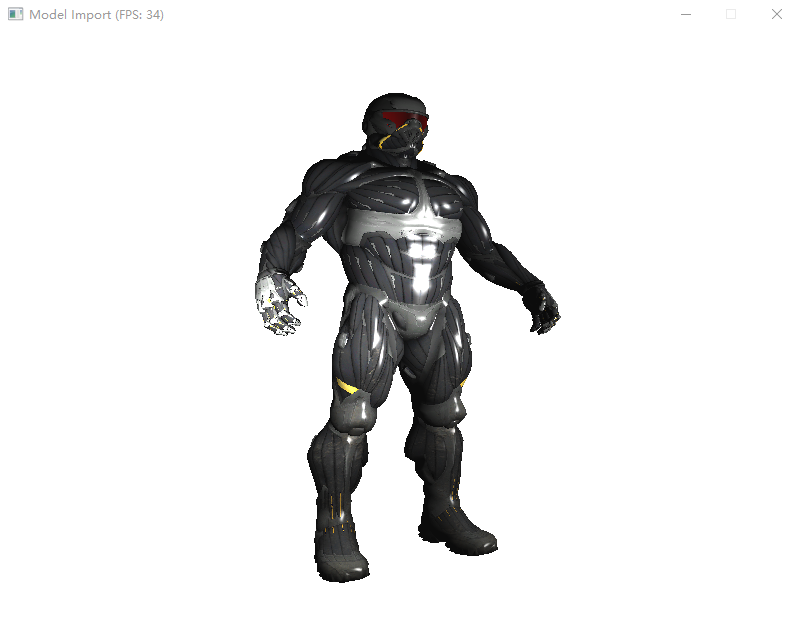
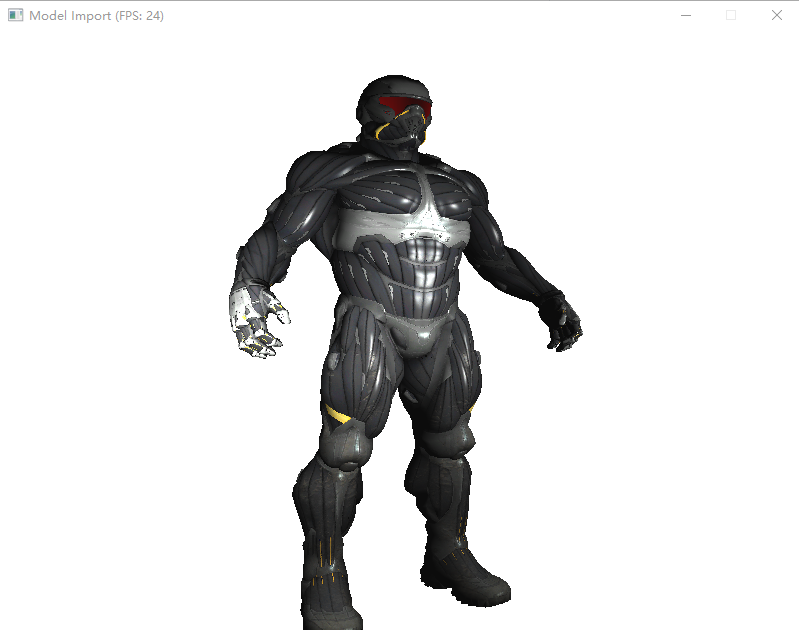
应用裁剪到模型渲染中

Changed region(s): [[0.2703, 0.1206, 0.7509, 1.0], [0.0, 0.0, 0.2103, 0.0302], [0.6308, 0.3921, 0.6608, 0.4222]]

diff --git a/SoftRenderer/SoftRenderer/RenderSystem/Shader.hpp b/SoftRenderer/SoftRenderer/RenderSystem/Shader.hpp
@@ -50,7 +50,7 @@ class DefaultShader : public Shader
 public:
 	DefaultShader()
 	{
-		fragmentShader = FragShader;
+		fragmentShader = TextureFragShader;
 		vertexShader = VertShader;
 	}
 
@@ -66,7 +66,7 @@ public:
 
 	static Vector3f TextureFragShader(FragmentShader inputData)
 	{
-
+		//std::cout << "is come" << std::endl;
 		Color textureColor = inputData.textures[0].Sample(inputData.texCoords.x, inputData.texCoords.y);
 
 		//Color textureColor = Color::black;
@@ -82,7 +82,7 @@ public:
 
 		Vector3f ka(0.005, 0.005, 0.005);
 		Vector3f kd = textureColor.ToVec3();
-		Vector3f ks(0.0, 0.0, 0.0);
+		Vector3f ks(0.005, 0.005, 0.005);
 
 		if (inputData.textures.size() > 1)
 		{
@@ -90,16 +90,16 @@ public:
 		}
 
 		Vector3f ambientLightIntensity(10, 10, 10);
-		PointLight pointLight(Color::red, Vector3f(0, 0, -40));
+		PointLight pointLight(Color::red, Vector3f(0, 0, -50));
 		pointLight.SetAttenuationPara(1.0f, 0.09f, 0.032f);
 
 		//float attenuation = pointLight.GetAttenuation(viewPos);
-		Vector3f attenuation(1200, 1200, 1200);
+		Vector3f attenuation(2000, 2000, 2000);
 		float p = 150;
 		Vector3f lightDir = pointLight.position - viewPos;
 		Vector3f eyeDir = eyePos - pointLight.position;
 		Vector3f halfL2E = (eyeDir + lightDir).Normalized();
-		//std::cout << "viewPos : " << viewPos << std::endl;
+
 		Vector3f lightDirNormal = (pointLight.position - viewPos).Normalized();
 		float r2 = pow(lightDir.x, 2.0) + pow(lightDir.y, 2.0) + pow(lightDir.z, 2.0);
 		attenuation /= r2;

diff --git a/SoftRenderer/SoftRenderer/Applications/ModelImportApp.hpp b/SoftRenderer/SoftRenderer/Applications/ModelImportApp.hpp
@@ -16,19 +16,19 @@ public:
 
 	void Init()
 	{
-		//model = Model("ModelData/nanosuit.obj", renderManager);
-		camera = Camera({ 0, 0, 20 }, { 0, 1, 0 }, { 0, 0, 1 });
+		model = Model("ModelData/nanosuit.obj", renderManager);
+		camera = Camera({ 0, 0, 60 }, { 0, 1, 0 }, { 0, 0, 1 });
 		renderManager->SetCamera(camera);
 		renderManager->sdlInterface->keyboardEventHandleCB = std::bind(&ModelImportApp::handleKeyDownEvents, this, placeholders::_1);
 		time.Start();
-		//model.Draw(shader);
-		std::vector<Vertex> vertices = {
+		model.Draw(shader);
+		/*std::vector<Vertex> vertices = {
 		Vertex(Vector3f(0,10,10),Color::red),
 		Vertex(Vector3f(-5,5,10),Color::green),
 		Vertex(Vector3f(5,5, 10),Color::blue)
 		};
 		std::vector<uint32_t> indices = { 0,1,2 };
-		renderManager->DrawMesh(shader, vertices, indices, -1, ShadedMode::Shaded);
+		renderManager->DrawMesh(shader, vertices, indices, -1, ShadedMode::ShadedWireframe);*/
 	}
 
 	~ModelImportApp()

diff --git a/SoftRenderer/SoftRenderer/RenderSystem/RenderManager.cpp b/SoftRenderer/SoftRenderer/RenderSystem/RenderManager.cpp
@@ -80,7 +80,7 @@ Matrix4f GetProjectionMatrix(float eye_fov, float aspect_ratio, float n, float f
 	Matrix4f persp2orthoMat(
 		n, 0, 0, 0,
 		0, n, 0, 0,
-		0, 0, n + f, n * f,
+		0, 0, n + f, -n * f,
 		0, 0, 1, 0);
 
 
@@ -119,11 +119,11 @@ RenderManager::RenderManager(const char* _windowName, int _width, int _height)
 
 	rasterizer = new Rasterizer(renderContext);
 
-	Vector3f angle(0, 0, 0);
-	Vector3f scale(1, 1, 1);
-	Vector3f transform = Vector3f(0, -10, 0);
-	float zNear = 5;
-	float zFar = 50;
+	Vector3f angle(0, 30, 0);
+	Vector3f scale(4, 4, 4);
+	Vector3f transform = Vector3f(0, -8, 0);
+	float zNear = 0.1;
+	float zFar = 100;
 
 	rasterizer->SetModel(GetModelMatrix(angle, scale, transform));
 

diff --git a/SoftRenderer/SoftRenderer/Base/Model.cpp b/SoftRenderer/SoftRenderer/Base/Model.cpp
@@ -149,7 +149,6 @@ int Model::TextureFromFile(const char *path, Texture& texture, bool gamma)
 {
 	int textureID;
 	std::string fileName = std::string(path);
-
 	fileName = directory + "/" + fileName;
 	std::vector<Color> colors;
 	int width, height, nrComponents;
